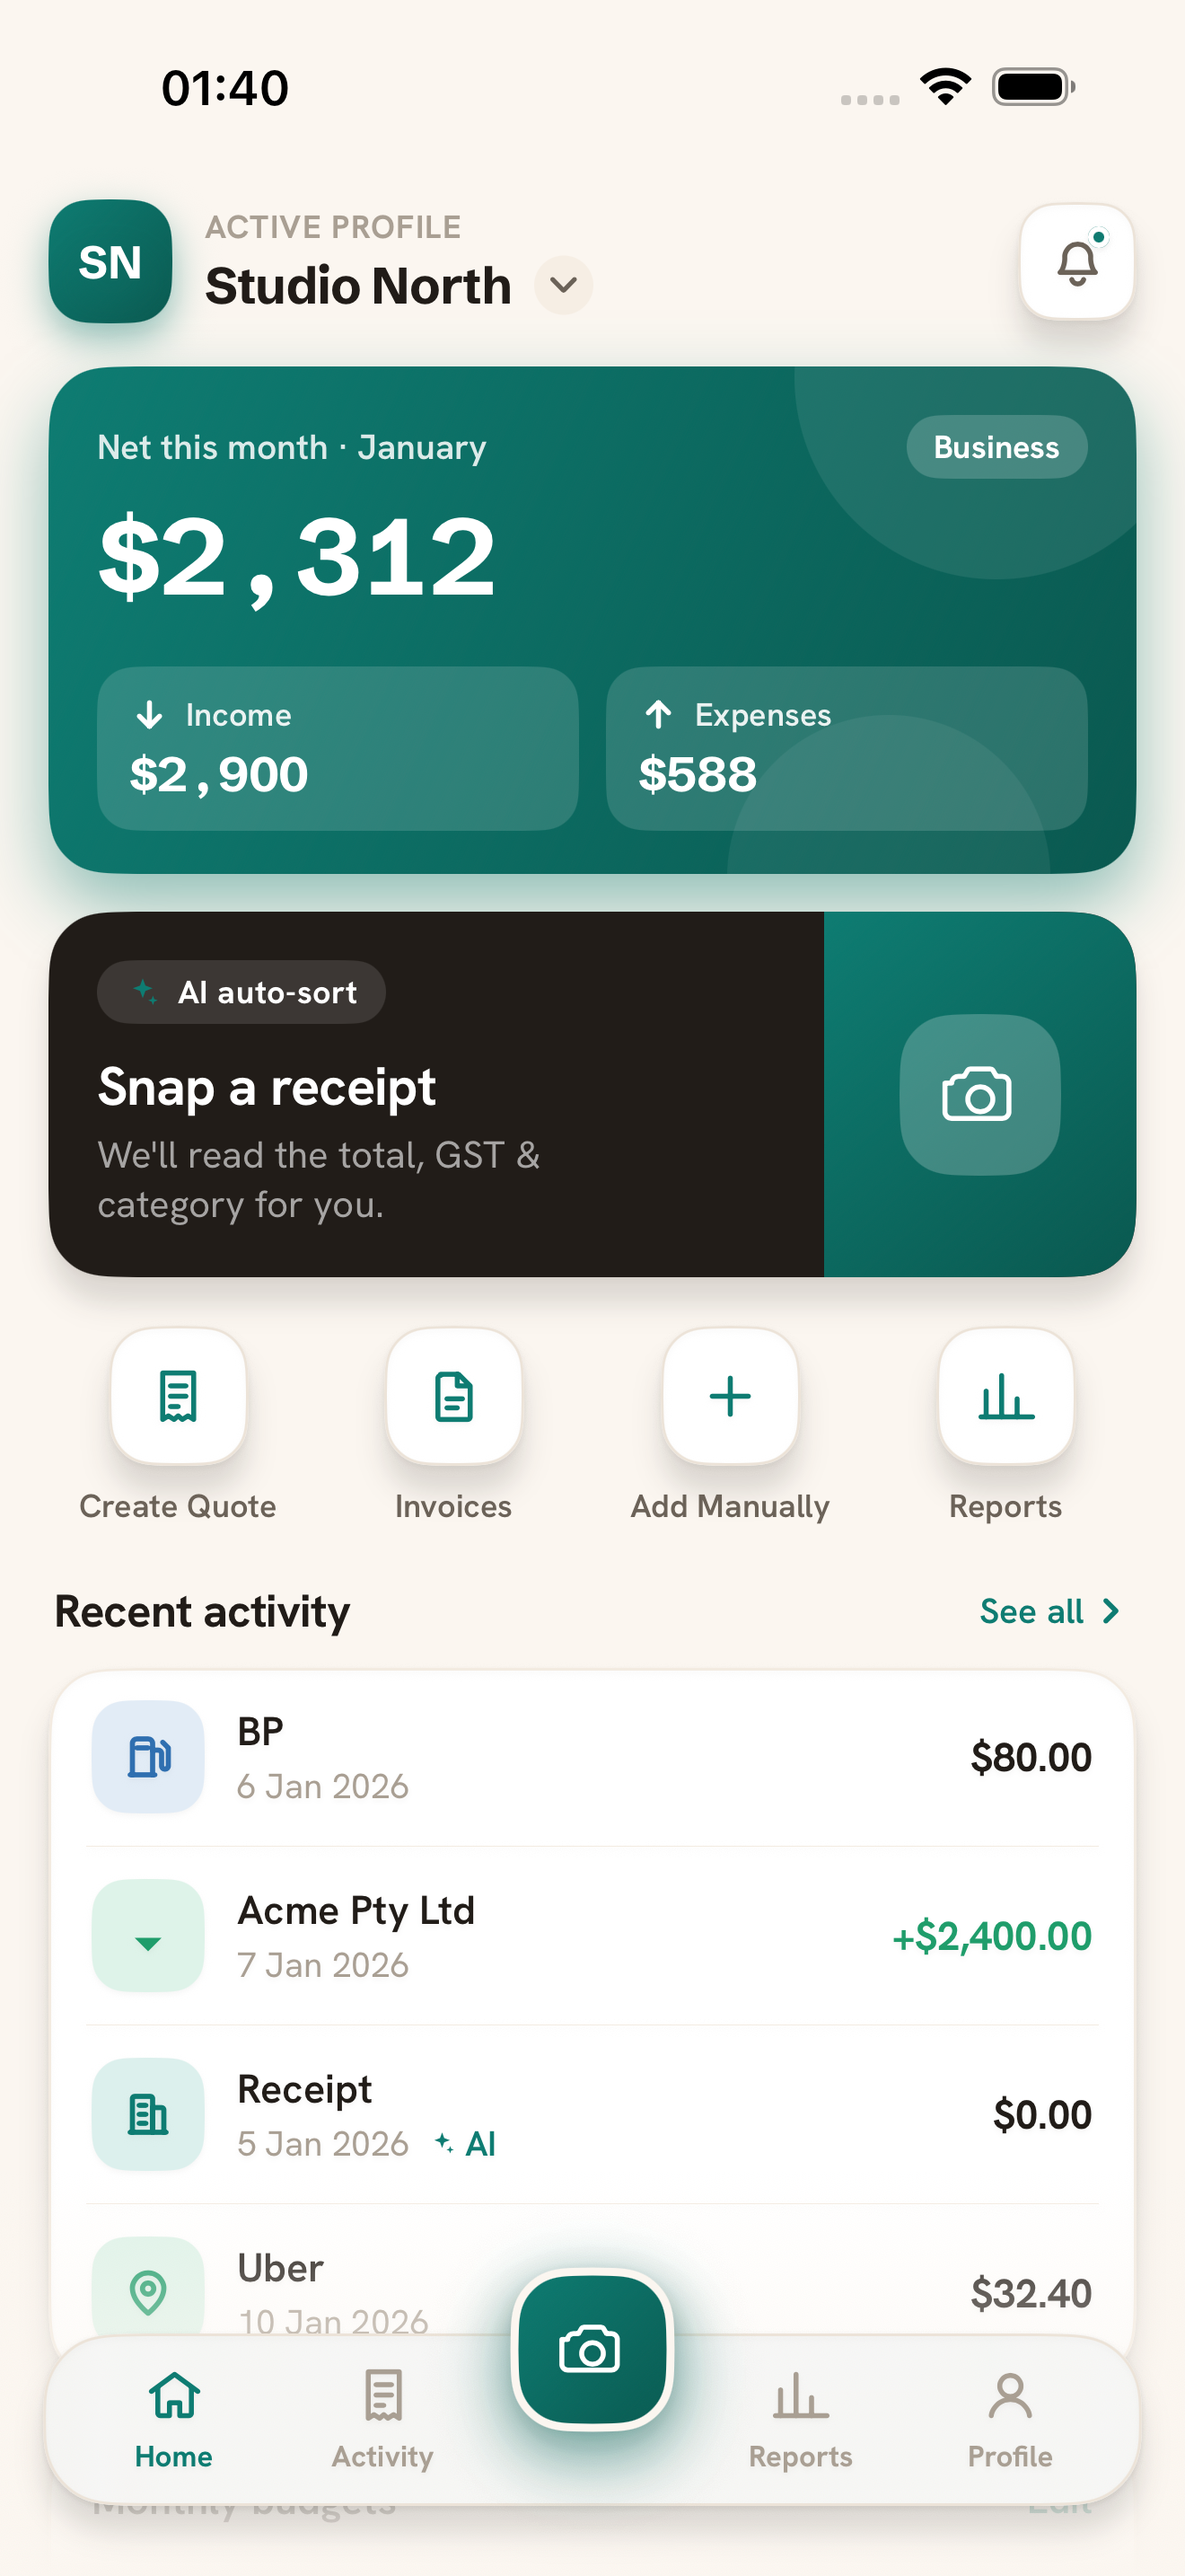
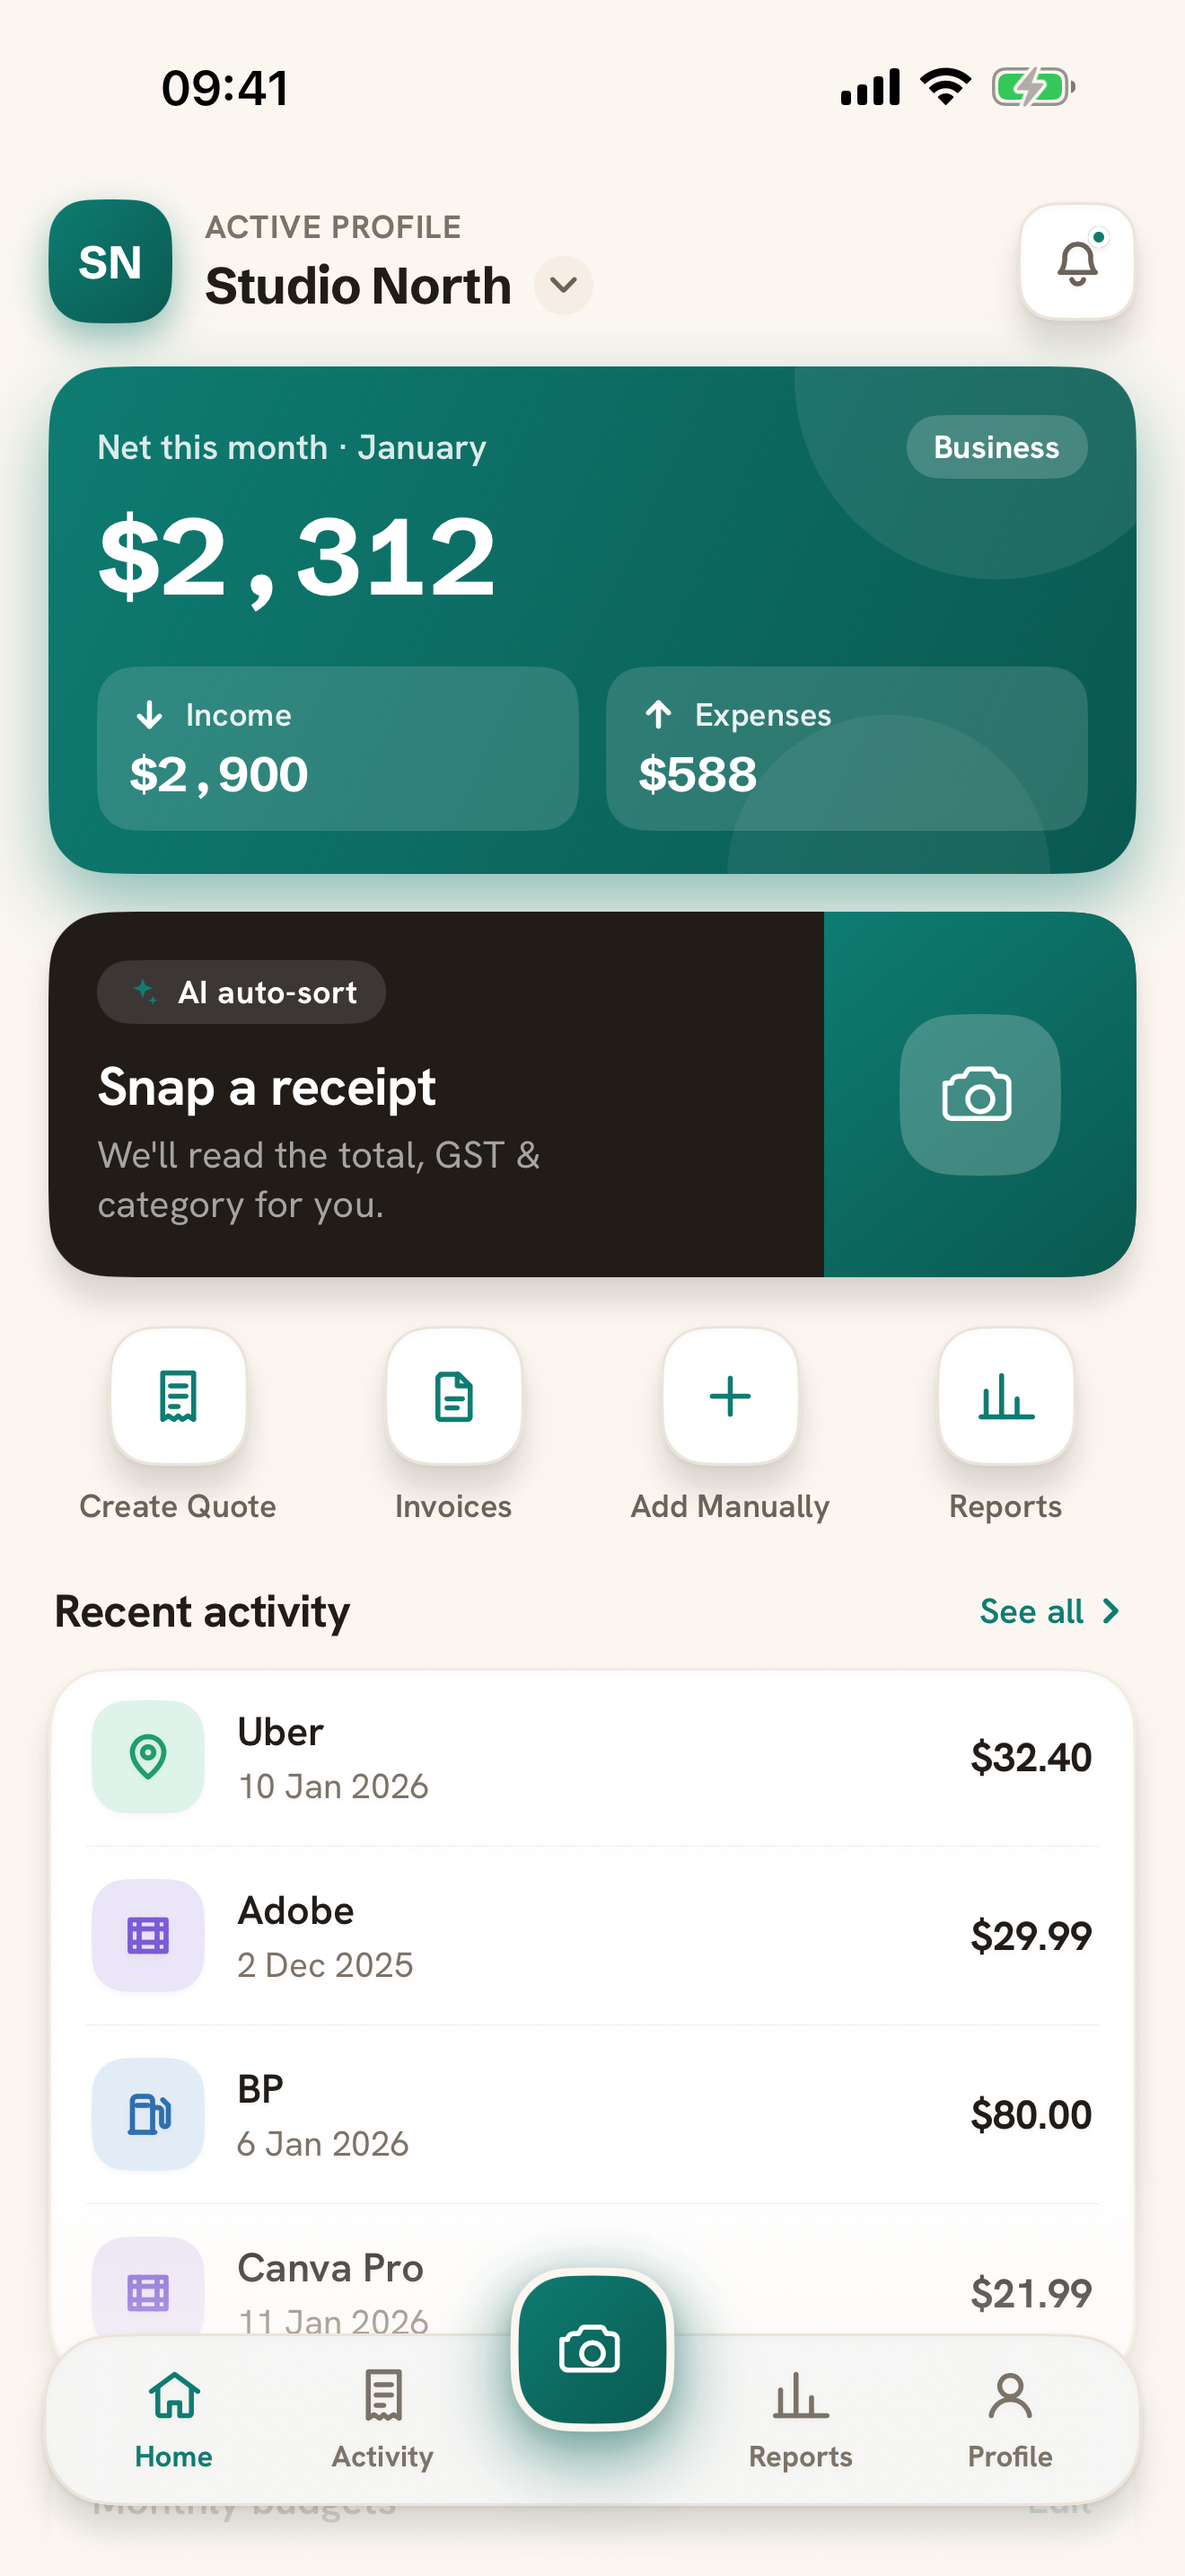
feat(appstore): new screenshots (home/scan/quotes/invoices/BAS) + multi-country metadata
- Screenshot tour: add an Invoices area (test_area_invoices) + an A/R demo seed (overdue/
  paid/unpaid in the pinned month) so the Invoices list renders populated; capture + invoices
  added to the App Store hero set; tour device retargeted to iPhone 17 Pro Max (1320x2868).
- App Store screenshots regenerated to 6 features x 6.9in + 6.5in; old set replaced.
- Metadata: reframe for multi-country receipt reading (AU/NZ/US/CA) while keeping GST/BAS as an
  Australian highlight (description, promo, release notes); keywords swap scanner->invoice.
The invoice seed is -uiTestTour-only (screenshot generation); the shipping app is unchanged.

diff --git a/Snapceipt/App/AppLaunch.swift b/Snapceipt/App/AppLaunch.swift
@@ -420,6 +420,45 @@ struct AppLaunch {
                          status: "sent", sentAt: Epoch.nowMs())
         context.insert(sent)
 
+        // invoices: an accounts-receivable spread so the Invoices list shows the
+        // "Needs attention" (overdue) section + Paid/Unpaid/Partial badges in screenshots.
+        // dueDate uses monthStart-relative Jan dates → always past vs the real tour run date,
+        // so the issued+unpaid rows read as Overdue deterministically (no shipping-view change).
+        let invPaid = Invoice(userId: DevAccount.userId, profileId: p1.id, number: "INV-0006",
+                              clientName: "Harbour Studios", clientEmail: "hello@harbour.example",
+                              gstEnabled: true, subtotalCents: 2_000_00, gstCents: 200_00, totalCents: 2_200_00,
+                              status: "issued", issueDate: dayISO(2), dueDate: dayISO(12),
+                              issuedAt: Epoch.nowMs() - 30_000, createdAt: Epoch.nowMs() - 30_000)
+        context.insert(invPaid)
+        context.insert(InvoiceLineItem(userId: DevAccount.userId, invoiceId: invPaid.id,
+                                       itemDescription: "Brand video production", quantity: 1, unitPriceCents: 2_000_00, sortOrder: 0))
+        context.insert(Payment(userId: DevAccount.userId, invoiceId: invPaid.id, amountCents: 2_200_00, paidOn: dayISO(9)))
+        let invUnpaid = Invoice(userId: DevAccount.userId, profileId: p1.id, number: "INV-0007",
+                                clientName: "Lighthouse Co", clientEmail: "ap@lighthouse.example",
+                                gstEnabled: true, subtotalCents: 480_00, gstCents: 48_00, totalCents: 528_00,
+                                status: "issued", issueDate: dayISO(6), dueDate: nil,
+                                issuedAt: Epoch.nowMs() - 60_000, createdAt: Epoch.nowMs() - 60_000)
+        context.insert(invUnpaid)
+        context.insert(InvoiceLineItem(userId: DevAccount.userId, invoiceId: invUnpaid.id,
+                                       itemDescription: "Social media templates", quantity: 1, unitPriceCents: 480_00, sortOrder: 0))
+        let invOverdue = Invoice(userId: DevAccount.userId, profileId: p1.id, number: "INV-0008",
+                                 clientName: "Acme Pty Ltd", clientEmail: "accounts@acme.example",
+                                 gstEnabled: true, subtotalCents: 1_200_00, gstCents: 120_00, totalCents: 1_320_00,
+                                 status: "issued", issueDate: dayISO(1), dueDate: dayISO(3),
+                                 issuedAt: Epoch.nowMs() - 120_000, createdAt: Epoch.nowMs() - 120_000)
+        context.insert(invOverdue)
+        context.insert(InvoiceLineItem(userId: DevAccount.userId, invoiceId: invOverdue.id,
+                                       itemDescription: "Website design — phase 1", quantity: 1, unitPriceCents: 1_200_00, sortOrder: 0))
+        let invPartial = Invoice(userId: DevAccount.userId, profileId: p1.id, number: "INV-0005",
+                                 clientName: "Northbridge Cafe", clientEmail: "owner@northbridge.example",
+                                 gstEnabled: true, subtotalCents: 600_00, gstCents: 60_00, totalCents: 660_00,
+                                 status: "issued", issueDate: dayISO(4), dueDate: dayISO(5),
+                                 issuedAt: Epoch.nowMs() - 90_000, createdAt: Epoch.nowMs() - 90_000)
+        context.insert(invPartial)
+        context.insert(InvoiceLineItem(userId: DevAccount.userId, invoiceId: invPartial.id,
+                                       itemDescription: "Menu photography", quantity: 1, unitPriceCents: 600_00, sortOrder: 0))
+        context.insert(Payment(userId: DevAccount.userId, invoiceId: invPartial.id, amountCents: 300_00, paidOn: dayISO(2)))
+
         // smart rule on p1
         context.insert(SmartRule(userId: DevAccount.userId, profileId: p1.id,
                                  matchType: "merchant_contains", matcher: "BP",

diff --git a/SnapceiptUITests/ScreenshotTourUITests.swift b/SnapceiptUITests/ScreenshotTourUITests.swift
@@ -240,6 +240,20 @@ final class ScreenshotTourUITests: UITestCase {
         }
     }
 
+    // Area 9b — Invoices (list + editor). Business quick action (Pro-gated), business is the
+    // tour default, so no profile switch. Mirror of test_area09_quotes; the tour fixture seeds
+    // an accounts-receivable spread (overdue/paid/unpaid) so the list renders populated.
+    @MainActor func test_area_invoices() {
+        launchTour(pro: true)
+        require(app.buttons[AccessibilityID.homeQuickInvoices], "home.quick.invoices")
+        app.buttons[AccessibilityID.homeQuickInvoices].firstMatch.tap()
+        require(app.descendants(matching: .any)[AccessibilityID.invoicesScreen], "invoice list")
+        shoot(app, "invoices-list-populated")
+        app.buttons[AccessibilityID.invoicesAdd].firstMatch.tap()
+        require(app.descendants(matching: .any)[AccessibilityID.invoiceEditorScreen], "invoice editor")
+        shoot(app, "invoice-editor-new")
+    }
+
     // Area 10 — Email-in + Settings + Profiles. Broadest area: shoot the hub +
     // every reachable sub-screen the spec names.
     @MainActor func test_area10_emailSettingsProfiles() {
